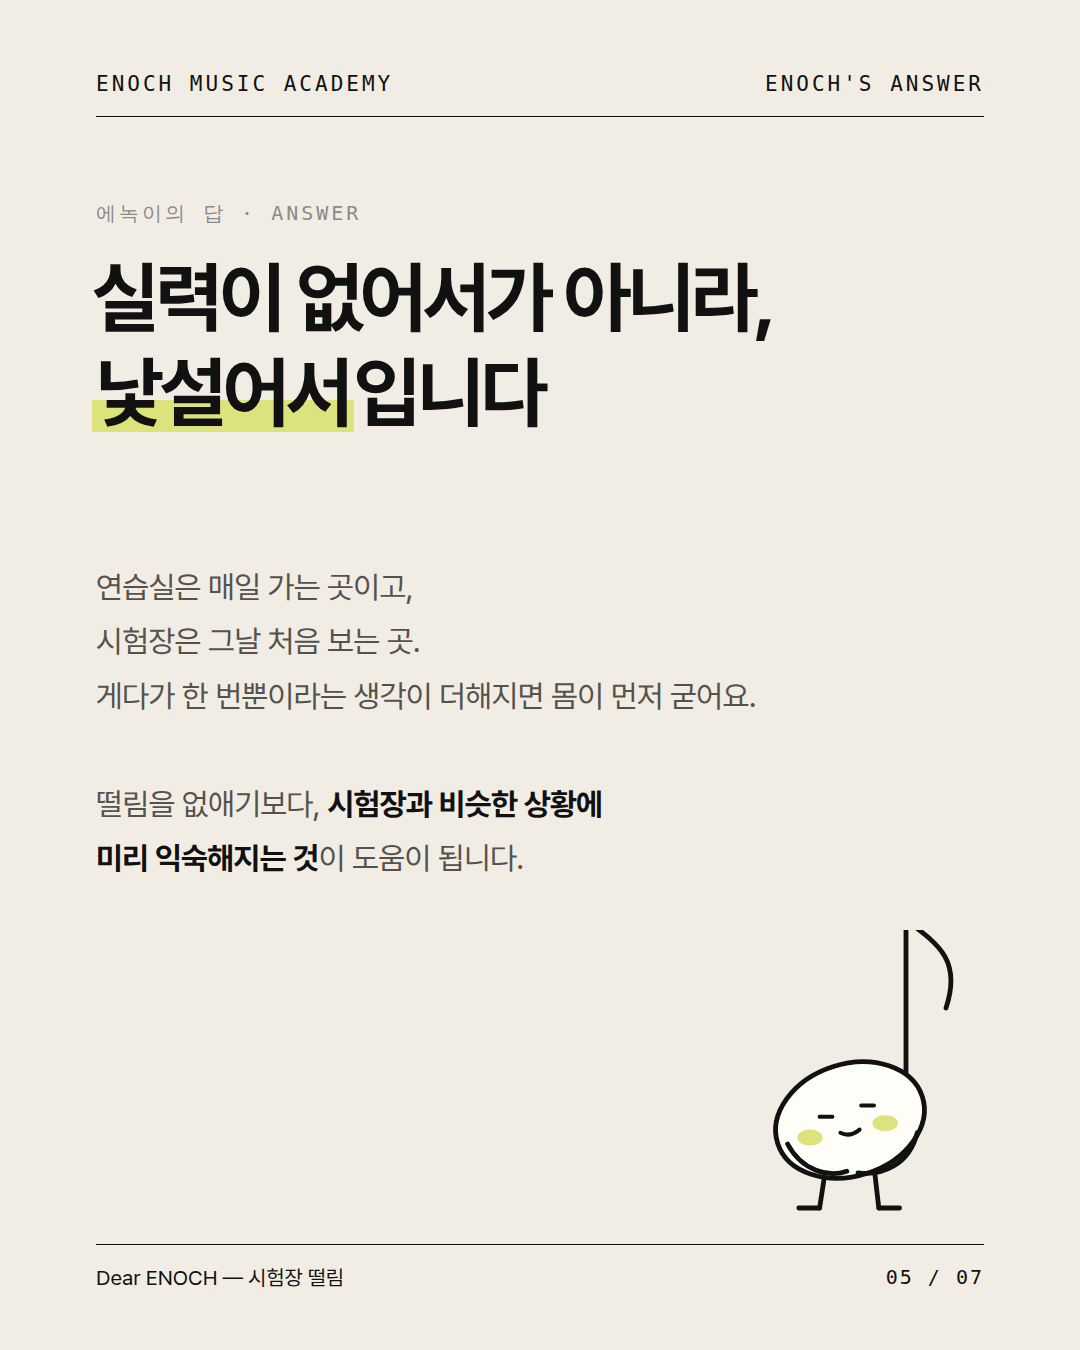
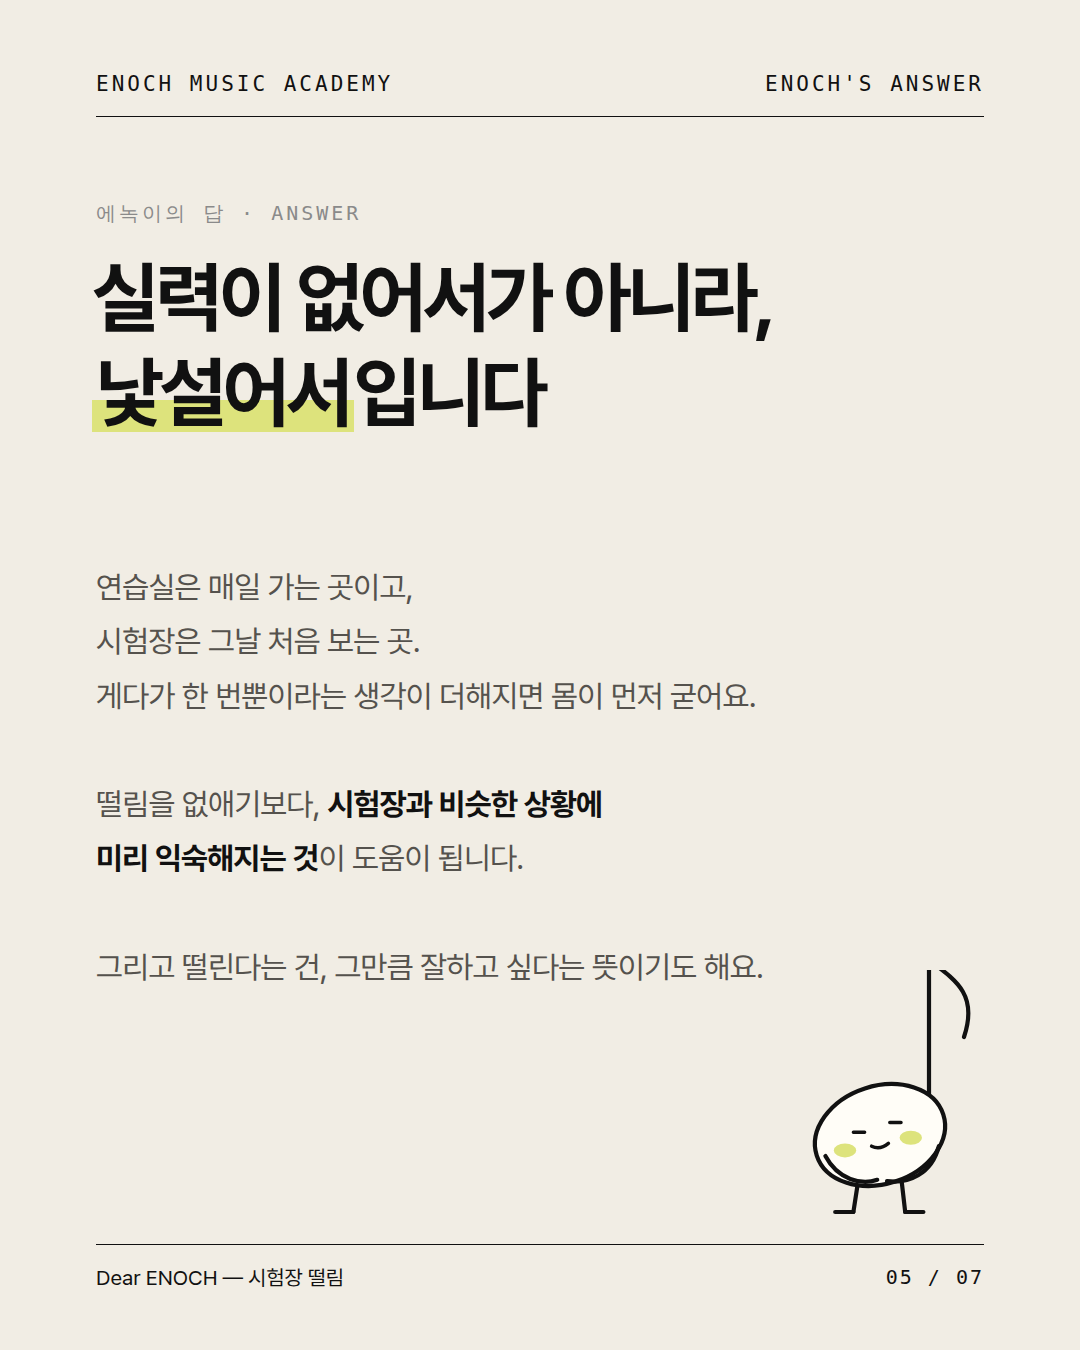
Dear ENOCH 02: 모의고사 진행(확인) 반영 + 무대 떨림 내용 합침
Claude-Session: https://claude.ai/code/session_01HGbZvgMeYrbU7mY8bwfjyb

diff --git a/output/디어에녹_02_시험장떨림/toon.html b/output/디어에녹_02_시험장떨림/toon.html
@@ -39,19 +39,20 @@ mark{background:linear-gradient(transparent 58%,var(--lime) 58%,var(--lime) 92%,
 <div class="ft"><span>Dear ENOCH — 시험장 떨림</span><span>04 / 07</span></div></section><section class="s" id="t5"><div class="hd"><span>ENOCH MUSIC ACADEMY</span><span>ENOCH'S ANSWER</span></div>
 <div class="k" style="position:absolute;left:96px;top:200px">에녹이의 답 · Answer</div>
 <div style="position:absolute;left:92px;top:250px;font-size:78px;font-weight:700;letter-spacing:-4px;line-height:1.22">실력이 없어서가 아니라,<br><mark>낯설어서</mark>입니다</div>
-<div class="p" style="position:absolute;left:96px;right:96px;top:560px">연습실은 매일 가는 곳이고,<br>시험장은 그날 처음 보는 곳.<br>게다가 한 번뿐이라는 생각이 더해지면 몸이 먼저 굳어요.<br><br>떨림을 없애기보다, <b>시험장과 비슷한 상황에<br>미리 익숙해지는 것</b>이 도움이 됩니다.</div>
-<svg width="300" height="300" style="position:absolute;right:80px;top:930px"><g transform="translate(150,190) scale(0.8,0.8)" stroke="#111" stroke-width="6" stroke-linecap="round" stroke-linejoin="round" fill="none"><path d="M70 -10 V -250"/><path d="M70 -250 C 110 -220, 140 -200, 120 -140"/><path d="M-30 58 L -38 110 M 30 58 L 36 110"/><path d="M-38 110 h -26 M 36 110 h 26"/><ellipse cx="0" cy="0" rx="95" ry="70" transform="rotate(-18)" fill="#FFFDF7"/><path d="M-78 30 C -60 64, -26 72, -4 64"/><path d="M 84 16 C 74 56, 40 70, 10 66"/><g stroke="none" fill="#DDE37C"><ellipse cx="-50" cy="22" rx="16" ry="10"/><ellipse cx="44" cy="4" rx="16" ry="10"/></g><path d="M-38 -4 h 16 M 14 -18 h 16" stroke-width="5"/><path d="M-12 16 Q 0 22 12 12" stroke-width="5"/></g></svg>
+<div class="p" style="position:absolute;left:96px;right:96px;top:560px">연습실은 매일 가는 곳이고,<br>시험장은 그날 처음 보는 곳.<br>게다가 한 번뿐이라는 생각이 더해지면 몸이 먼저 굳어요.<br><br>떨림을 없애기보다, <b>시험장과 비슷한 상황에<br>미리 익숙해지는 것</b>이 도움이 됩니다.<br><br>그리고 떨린다는 건, 그만큼 잘하고 싶다는 뜻이기도 해요.</div>
+<svg width="260" height="260" style="position:absolute;right:70px;top:970px"><g transform="translate(130,165) scale(0.7,0.7)" stroke="#111" stroke-width="6" stroke-linecap="round" stroke-linejoin="round" fill="none"><path d="M70 -10 V -250"/><path d="M70 -250 C 110 -220, 140 -200, 120 -140"/><path d="M-30 58 L -38 110 M 30 58 L 36 110"/><path d="M-38 110 h -26 M 36 110 h 26"/><ellipse cx="0" cy="0" rx="95" ry="70" transform="rotate(-18)" fill="#FFFDF7"/><path d="M-78 30 C -60 64, -26 72, -4 64"/><path d="M 84 16 C 74 56, 40 70, 10 66"/><g stroke="none" fill="#DDE37C"><ellipse cx="-50" cy="22" rx="16" ry="10"/><ellipse cx="44" cy="4" rx="16" ry="10"/></g><path d="M-38 -4 h 16 M 14 -18 h 16" stroke-width="5"/><path d="M-12 16 Q 0 22 12 12" stroke-width="5"/></g></svg>
 <div class="ft"><span>Dear ENOCH — 시험장 떨림</span><span>05 / 07</span></div></section><section class="s dark" id="t6"><div class="hd"><span>ENOCH MUSIC ACADEMY</span><span>TRY THIS WEEK</span></div>
 <div style="position:absolute;left:92px;top:200px;font-size:80px;font-weight:700;letter-spacing:-4px;line-height:1.2">시험장을,<br>미리 만나 보기</div>
-<div style="position:absolute;left:96px;right:96px;top:480px">
-<div style="display:flex;gap:32px;padding:30px 0;border-top:1px solid rgba(241,237,228,.3)"><span class="num">1</span><div><div style="font-size:36px;font-weight:700">딱 한 번만</div><div style="margin-top:10px;font-size:28px;color:#C9C4BB;line-height:1.5">연습 중 한 번은 다시 하지 않기로 정해 보세요.<br>노래든 연주든, 실수해도 끝까지.</div></div></div>
-<div style="display:flex;gap:32px;padding:30px 0;border-top:1px solid rgba(241,237,228,.3)"><span class="num">2</span><div><div style="font-size:36px;font-weight:700">처음 보는 사람 앞에서</div><div style="margin-top:10px;font-size:28px;color:#C9C4BB;line-height:1.5">익숙하지 않은 사람 앞에서 노래하거나 연주해 보면,<br>시험장의 낯섦과 조금 가까워져요.</div></div></div>
-<div style="display:flex;gap:32px;padding:30px 0;border-top:1px solid rgba(241,237,228,.3);border-bottom:1px solid rgba(241,237,228,.3)"><span class="num">3</span><div><div style="font-size:36px;font-weight:700">들어가는 순간부터</div><div style="margin-top:10px;font-size:28px;color:#C9C4BB;line-height:1.5">문을 열고 들어가서 첫 음을 내기까지. 그 순서도 연습의 일부입니다.</div></div></div>
+<div style="position:absolute;left:96px;right:96px;top:440px">
+<div style="display:flex;gap:32px;padding:26px 0;border-top:1px solid rgba(241,237,228,.3)"><span class="num">1</span><div><div style="font-size:36px;font-weight:700">카메라 켜고, 딱 한 번만</div><div style="margin-top:10px;font-size:28px;color:#C9C4BB;line-height:1.5">휴대폰으로 녹화하면서 한 번은 다시 하지 않기.<br>노래든 연주든, 실수해도 끝까지.</div></div></div>
+<div style="display:flex;gap:32px;padding:26px 0;border-top:1px solid rgba(241,237,228,.3)"><span class="num">2</span><div><div style="font-size:36px;font-weight:700">처음 보는 사람 앞에서</div><div style="margin-top:10px;font-size:28px;color:#C9C4BB;line-height:1.5">익숙하지 않은 사람 앞에서 노래하거나 연주해 보면,<br>시험장의 낯섦과 조금 가까워져요.</div></div></div>
+<div style="display:flex;gap:32px;padding:26px 0;border-top:1px solid rgba(241,237,228,.3)"><span class="num">3</span><div><div style="font-size:36px;font-weight:700">들어가는 순간부터</div><div style="margin-top:10px;font-size:28px;color:#C9C4BB;line-height:1.5">문을 열고 들어가서 첫 음을 내기까지. 그 순서도 연습입니다.</div></div></div>
+<div style="display:flex;gap:32px;padding:26px 0;border-top:1px solid rgba(241,237,228,.3);border-bottom:1px solid rgba(241,237,228,.3)"><span class="num">4</span><div><div style="font-size:36px;font-weight:700">시작 전 한 숨</div><div style="margin-top:10px;font-size:28px;color:#C9C4BB;line-height:1.5">첫 음 전에 숨을 길게 내쉬어 보세요. 몸이 조금 내려앉아요.</div></div></div>
 </div>
 <svg width="200" height="220" style="position:absolute;right:70px;top:150px"><g transform="translate(100,150) scale(0.55,0.55)" stroke="#F1EDE4" stroke-width="6" stroke-linecap="round" stroke-linejoin="round" fill="none"><path d="M70 -10 V -250"/><path d="M70 -250 C 110 -220, 140 -200, 120 -140"/><path d="M-30 58 L -38 110 M 30 58 L 36 110"/><path d="M-38 110 h -26 M 36 110 h 26"/><path d="M-88 10 C -120 30, -125 60, -118 80"/><path d="M 92 -20 C 130 -60, 140 -90, 132 -120"/><ellipse cx="0" cy="0" rx="95" ry="70" transform="rotate(-18)" fill="#FFFDF7"/><g stroke="none" fill="#DDE37C"><ellipse cx="-50" cy="22" rx="16" ry="10"/><ellipse cx="44" cy="4" rx="16" ry="10"/></g><g fill="#111" stroke="none"><ellipse cx="-30" cy="-8" rx="7" ry="9"/><ellipse cx="22" cy="-22" rx="7" ry="9"/></g><path d="M-14 16 Q 0 28 14 10" stroke-width="5"/></g></svg>
 <div class="ft"><span>Dear ENOCH — 시험장 떨림</span><span>06 / 07</span></div></section><section class="s dark" id="t7"><div class="hd"><span>ENOCH MUSIC ACADEMY</span><span>THE ENOCH WAY</span></div>
 <div style="position:absolute;left:92px;top:200px;font-size:80px;font-weight:700;letter-spacing:-4px;line-height:1.2">고민,<br><span style="color:var(--lime)">보내 주세요.</span></div>
-<div class="p" style="position:absolute;left:96px;right:96px;top:470px;color:#C9C4BB">음악 하면서 생긴 고민을 스토리 질문으로 받습니다.<br>골라서, 에녹이가 Dear ENOCH로 답할게요.<br><br>같은 곡도, 사람마다 다르게 가르칩니다.<br>입시 과정도 모두 <b style="color:#F1EDE4">1:1</b>.</div>
+<div class="p" style="position:absolute;left:96px;right:96px;top:470px;color:#C9C4BB">음악 하면서 생긴 고민을 스토리 질문으로 받습니다.<br>골라서, 에녹이가 Dear ENOCH로 답할게요.<br><br>같은 곡도, 사람마다 다르게 가르칩니다.<br>ENOCH 입시 과정은 모두 <b style="color:#F1EDE4">1:1</b>,<br><b style="color:#F1EDE4">모의고사</b>도 진행합니다.</div>
 <svg width="320" height="400" style="position:absolute;right:90px;top:760px"><g transform="translate(160,260) scale(0.95,0.95)" stroke="#F1EDE4" stroke-width="6" stroke-linecap="round" stroke-linejoin="round" fill="none"><path d="M70 -10 V -250"/><path d="M70 -250 C 110 -220, 140 -200, 120 -140"/><path d="M-30 58 L -38 110 M 30 58 L 36 110"/><path d="M-38 110 h -26 M 36 110 h 26"/><path d="M-88 -10 C -130 -40, -140 -80, -130 -110"/><path d="M 92 -20 C 130 -60, 140 -90, 132 -120"/><ellipse cx="0" cy="0" rx="95" ry="70" transform="rotate(-18)" fill="#FFFDF7"/><g stroke="none" fill="#DDE37C"><ellipse cx="-50" cy="22" rx="16" ry="10"/><ellipse cx="44" cy="4" rx="16" ry="10"/></g><path d="M-38 -4 q 8 -10 16 0 M 14 -18 q 8 -10 16 0" stroke-width="5"/><path d="M-16 12 Q 0 32 18 6" stroke-width="5"/></g></svg>
 <div style="position:absolute;left:96px;top:1040px;font-size:22px;line-height:1.6">에녹실용음악학원 시흥점<br><span style="color:#9A958C">경기도 시흥시 은행로 157 2층 · 010 3949 3666</span></div>
 <div class="ft"><span>Dear ENOCH — 시험장 떨림</span><span>07 / 07</span></div></section></body></html>

diff --git a/output/디어에녹_02_시험장떨림/build.py b/output/디어에녹_02_시험장떨림/build.py
@@ -102,24 +102,25 @@ S.append(f'''<section class="s" id="t4">{H()}
 S.append(f'''<section class="s" id="t5">{H("ENOCH'S ANSWER")}
 <div class="k" style="position:absolute;left:96px;top:200px">에녹이의 답 · Answer</div>
 <div style="position:absolute;left:92px;top:250px;font-size:78px;font-weight:700;letter-spacing:-4px;line-height:1.22">실력이 없어서가 아니라,<br><mark>낯설어서</mark>입니다</div>
-<div class="p" style="position:absolute;left:96px;right:96px;top:560px">연습실은 매일 가는 곳이고,<br>시험장은 그날 처음 보는 곳.<br>게다가 한 번뿐이라는 생각이 더해지면 몸이 먼저 굳어요.<br><br>떨림을 없애기보다, <b>시험장과 비슷한 상황에<br>미리 익숙해지는 것</b>이 도움이 됩니다.</div>
-<svg width="300" height="300" style="position:absolute;right:80px;top:930px">{mascot(150,190,0.8,"calm","hug")}</svg>
+<div class="p" style="position:absolute;left:96px;right:96px;top:560px">연습실은 매일 가는 곳이고,<br>시험장은 그날 처음 보는 곳.<br>게다가 한 번뿐이라는 생각이 더해지면 몸이 먼저 굳어요.<br><br>떨림을 없애기보다, <b>시험장과 비슷한 상황에<br>미리 익숙해지는 것</b>이 도움이 됩니다.<br><br>그리고 떨린다는 건, 그만큼 잘하고 싶다는 뜻이기도 해요.</div>
+<svg width="260" height="260" style="position:absolute;right:70px;top:970px">{mascot(130,165,0.7,"calm","hug")}</svg>
 {F(5)}</section>''')
 # 6 해보기
-row = lambda n, t, d, last=False: f'<div style="display:flex;gap:32px;padding:30px 0;border-top:1px solid rgba(241,237,228,.3){";border-bottom:1px solid rgba(241,237,228,.3)" if last else ""}"><span class="num">{n}</span><div><div style="font-size:36px;font-weight:700">{t}</div><div style="margin-top:10px;font-size:28px;color:#C9C4BB;line-height:1.5">{d}</div></div></div>'
+row = lambda n, t, d, last=False: f'<div style="display:flex;gap:32px;padding:26px 0;border-top:1px solid rgba(241,237,228,.3){";border-bottom:1px solid rgba(241,237,228,.3)" if last else ""}"><span class="num">{n}</span><div><div style="font-size:36px;font-weight:700">{t}</div><div style="margin-top:10px;font-size:28px;color:#C9C4BB;line-height:1.5">{d}</div></div></div>'
 S.append(f'''<section class="s dark" id="t6">{H("TRY THIS WEEK")}
 <div style="position:absolute;left:92px;top:200px;font-size:80px;font-weight:700;letter-spacing:-4px;line-height:1.2">시험장을,<br>미리 만나 보기</div>
-<div style="position:absolute;left:96px;right:96px;top:480px">
-{row(1,'딱 한 번만','연습 중 한 번은 다시 하지 않기로 정해 보세요.<br>노래든 연주든, 실수해도 끝까지.')}
+<div style="position:absolute;left:96px;right:96px;top:440px">
+{row(1,'카메라 켜고, 딱 한 번만','휴대폰으로 녹화하면서 한 번은 다시 하지 않기.<br>노래든 연주든, 실수해도 끝까지.')}
 {row(2,'처음 보는 사람 앞에서','익숙하지 않은 사람 앞에서 노래하거나 연주해 보면,<br>시험장의 낯섦과 조금 가까워져요.')}
-{row(3,'들어가는 순간부터','문을 열고 들어가서 첫 음을 내기까지. 그 순서도 연습의 일부입니다.',True)}
+{row(3,'들어가는 순간부터','문을 열고 들어가서 첫 음을 내기까지. 그 순서도 연습입니다.')}
+{row(4,'시작 전 한 숨','첫 음 전에 숨을 길게 내쉬어 보세요. 몸이 조금 내려앉아요.',True)}
 </div>
 <svg width="200" height="220" style="position:absolute;right:70px;top:150px">{mascot(100,150,0.55,"smile","wave",ink="#F1EDE4")}</svg>
 {F(6)}</section>''')
 # 7 마무리
 S.append(f'''<section class="s dark" id="t7">{H("THE ENOCH WAY")}
 <div style="position:absolute;left:92px;top:200px;font-size:80px;font-weight:700;letter-spacing:-4px;line-height:1.2">고민,<br><span style="color:var(--lime)">보내 주세요.</span></div>
-<div class="p" style="position:absolute;left:96px;right:96px;top:470px;color:#C9C4BB">음악 하면서 생긴 고민을 스토리 질문으로 받습니다.<br>골라서, 에녹이가 Dear ENOCH로 답할게요.<br><br>같은 곡도, 사람마다 다르게 가르칩니다.<br>입시 과정도 모두 <b style="color:#F1EDE4">1:1</b>.</div>
+<div class="p" style="position:absolute;left:96px;right:96px;top:470px;color:#C9C4BB">음악 하면서 생긴 고민을 스토리 질문으로 받습니다.<br>골라서, 에녹이가 Dear ENOCH로 답할게요.<br><br>같은 곡도, 사람마다 다르게 가르칩니다.<br>ENOCH 입시 과정은 모두 <b style="color:#F1EDE4">1:1</b>,<br><b style="color:#F1EDE4">모의고사</b>도 진행합니다.</div>
 <svg width="320" height="400" style="position:absolute;right:90px;top:760px">{mascot(160,260,0.95,"happy","up",ink="#F1EDE4")}</svg>
 <div style="position:absolute;left:96px;top:1040px;font-size:22px;line-height:1.6">에녹실용음악학원 시흥점<br><span style="color:#9A958C">경기도 시흥시 은행로 157 2층 · 010 3949 3666</span></div>
 {F(7)}</section>''')

diff --git a/output/디어에녹_02_시험장떨림/caption.md b/output/디어에녹_02_시험장떨림/caption.md
@@ -3,9 +3,9 @@
 ## 본문
 "연습실에서는 괜찮은데, 시험장에서 너무 떨려요."
 
-연습실은 매일 가는 곳이고, 시험장은 그날 처음 보는 곳입니다. 떨리는 건 실력이 없어서가 아니라 낯설어서예요. ENOCH은 입시 과정도 모두 1:1. 같은 곡도, 사람마다 다르게 가르칩니다.
+연습실은 매일 가는 곳이고, 시험장은 그날 처음 보는 곳입니다. 떨리는 건 실력이 없어서가 아니라 낯설어서예요. ENOCH은 입시 과정에서 모의고사를 진행합니다. 시험장과 비슷한 자리를 미리 겪어 보는 거예요. 입시 과정은 모두 1:1이고요. 떨린다는 건, 그만큼 잘하고 싶다는 뜻이기도 합니다.
 
-이번 주에는 시험장을 미리 만나 보세요. 노래든 연주든 마찬가지입니다. 연습 중 한 번은 실수해도 다시 하지 않기, 처음 보는 사람 앞에서 노래하거나 연주해 보기, 문을 열고 들어가 첫 음을 내기까지 순서대로 해 보기.
+이번 주에는 시험장을 미리 만나 보세요. 노래든 연주든 마찬가지입니다. 카메라를 켜고 한 번은 실수해도 다시 하지 않기, 처음 보는 사람 앞에서 노래하거나 연주해 보기, 문을 열고 들어가 첫 음을 내기까지 순서대로 해 보기, 첫 음 전에 숨을 길게 내쉬기.
 
 음악 하면서 생긴 고민, 스토리 질문으로 보내 주세요. 골라서 에녹이가 답할게요.
 
@@ -20,5 +20,5 @@
 3. 심사석 세 자리와 시계, 빈 의자와 마이크, 바닥 표시 07이 있는 시험장 칸. 에녹이: "그런데 시험장 문을 여는 순간."
 4. 같은 시험장에 떠 있는 생각 말풍선: 한 번뿐인데 / 다 보고 있어 / 틀리면 어떡하지 / 숨이…
 5. 에녹이의 답: "실력이 없어서가 아니라, 낯설어서입니다."
-6. 검정 장 "시험장을, 미리 만나 보기": 딱 한 번만 / 처음 보는 사람 앞에서 / 들어가는 순간부터.
-7. 검정 장 "고민, 보내 주세요." 원칙 2와 입시 과정 1:1, 주소·전화.
+6. 검정 장 "시험장을, 미리 만나 보기": 카메라 켜고 딱 한 번만 / 처음 보는 사람 앞에서 / 들어가는 순간부터 / 시작 전 한 숨.
+7. 검정 장 "고민, 보내 주세요." 원칙 2, 입시 과정 1:1과 모의고사 진행, 주소·전화.

diff --git a/CLAUDE.md b/CLAUDE.md
@@ -16,6 +16,7 @@
 - 오시는 길: 대야역 도보 10–15분, 성원아파트 정류장 앞 (1층: 역전우동 · 오피스문구점)
 - 과목: Vocal · Guitar · Drum · Bass · Piano · MIDI · 작곡, 1:1 레슨
 - 과정: 입시 · 취미 · 성인 · 전문 (모든 과정 1:1 레슨)
+  - 입시 과정은 모의고사를 진행한다 (2026-10-12 확인). 횟수·방식은 확인 전이라 쓰지 않는다.
 - 규모: 100평 이상, 강사 20명 이상, 취미/입시 캠퍼스 분리 예정
   - 평수와 레슨실·연습실 개수는 콘텐츠·캡션에 쓰지 않는다 (공개하지 않음, 2026-10-01 원장님 결정).
 - 연습실: 수강생은 운영시간 안에 연습실을 자유롭게 쓸 수 있다 (2026-10-04 원장님 문구: "운영시간 내 자유로운 연습실 이용이 가능합니다").

diff --git a/output/디어에녹_02_시험장떨림/review.md b/output/디어에녹_02_시험장떨림/review.md
@@ -8,4 +8,5 @@
 - 답·해보기는 상식 선. ENOCH 수업 방식(모의 실기 등)은 쓰지 않음.
 
 ## 학원에 확인할 것
-- 입시반에서 모의 실기·시험장 리허설을 실제로 하는지. 하면 6장 또는 캡션에 사실로 넣을 수 있음.
+- (확인됨 2026-10-12) 입시 과정 모의고사 진행 → 7장·캡션에 반영. 횟수·방식은 확인 전이라 쓰지 않음.
+- 무대 떨림(01)은 올리지 않기로 해서, 01의 '잘하고 싶어서'·'카메라'·'시작 전 한 숨'을 02에 합침.
